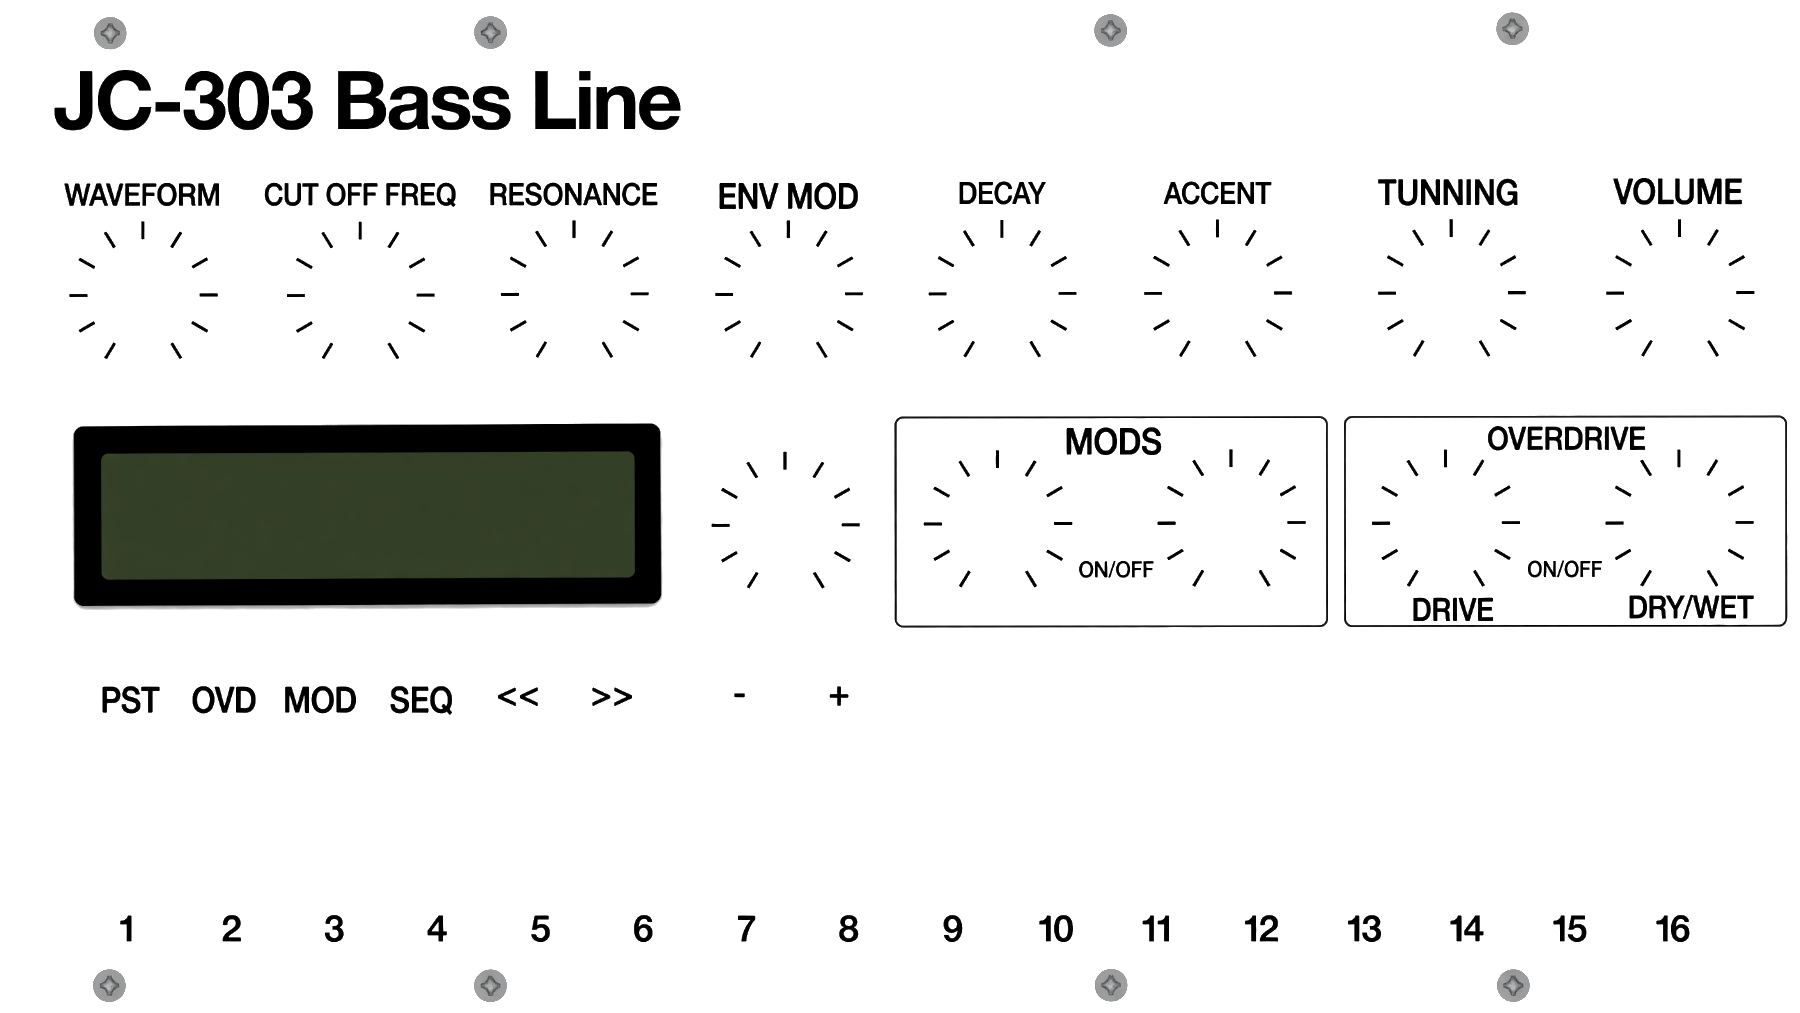
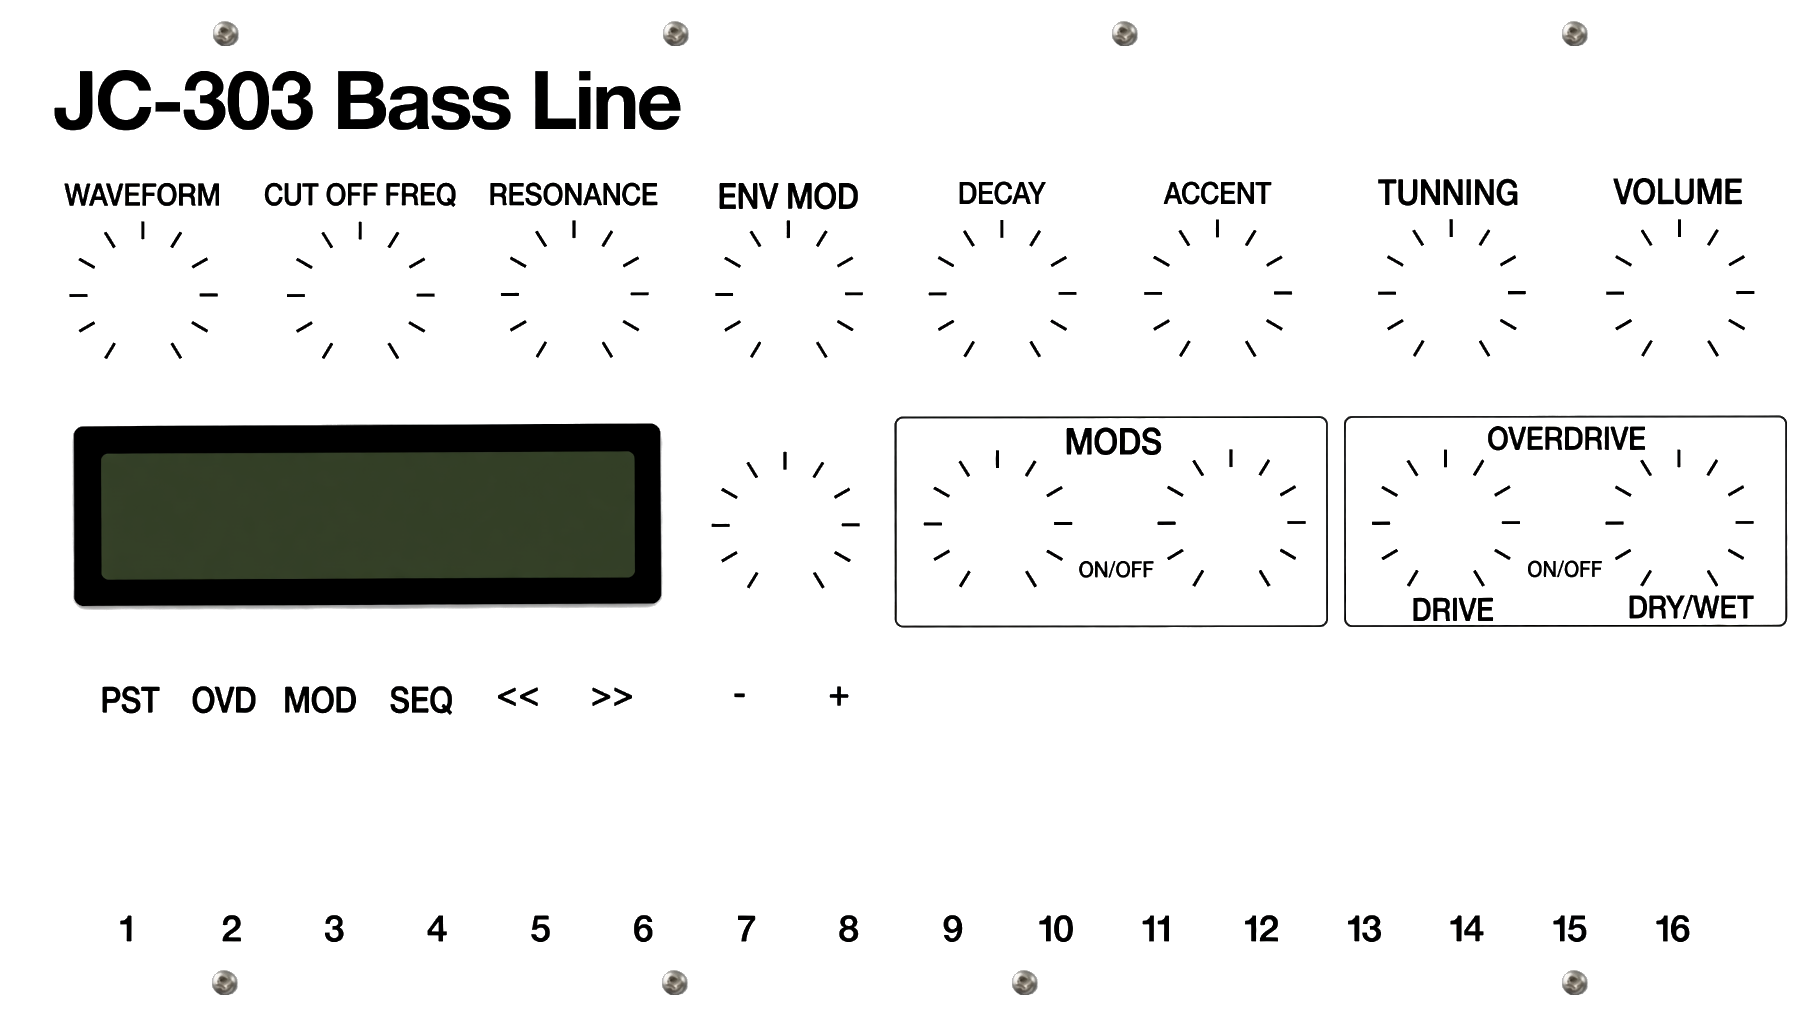
added photorealistic screws and set default menu page to OVR

diff --git a/src/gui/midilabv2/Gui.cpp b/src/gui/midilabv2/Gui.cpp
@@ -76,7 +76,7 @@ JC303Editor::JC303Editor (JC303& p, juce::AudioProcessorValueTreeState& vts)
     menuPage->setAssignableParam(0, "lfoRate");
     menuPage->setAssignableParam(1, "lfoDepth");
 
-    menuPresetButton->setToggleState(true, juce::dontSendNotification);
+    selectMenu(1);   // default menu page = OVD (Overdrive)
     menuPresetButton->onClick = [this] { selectMenu(0); };
     menuOverdriveButton->onClick = [this] { selectMenu(1); };
     menuModButton->onClick = [this] { selectMenu(2); };
